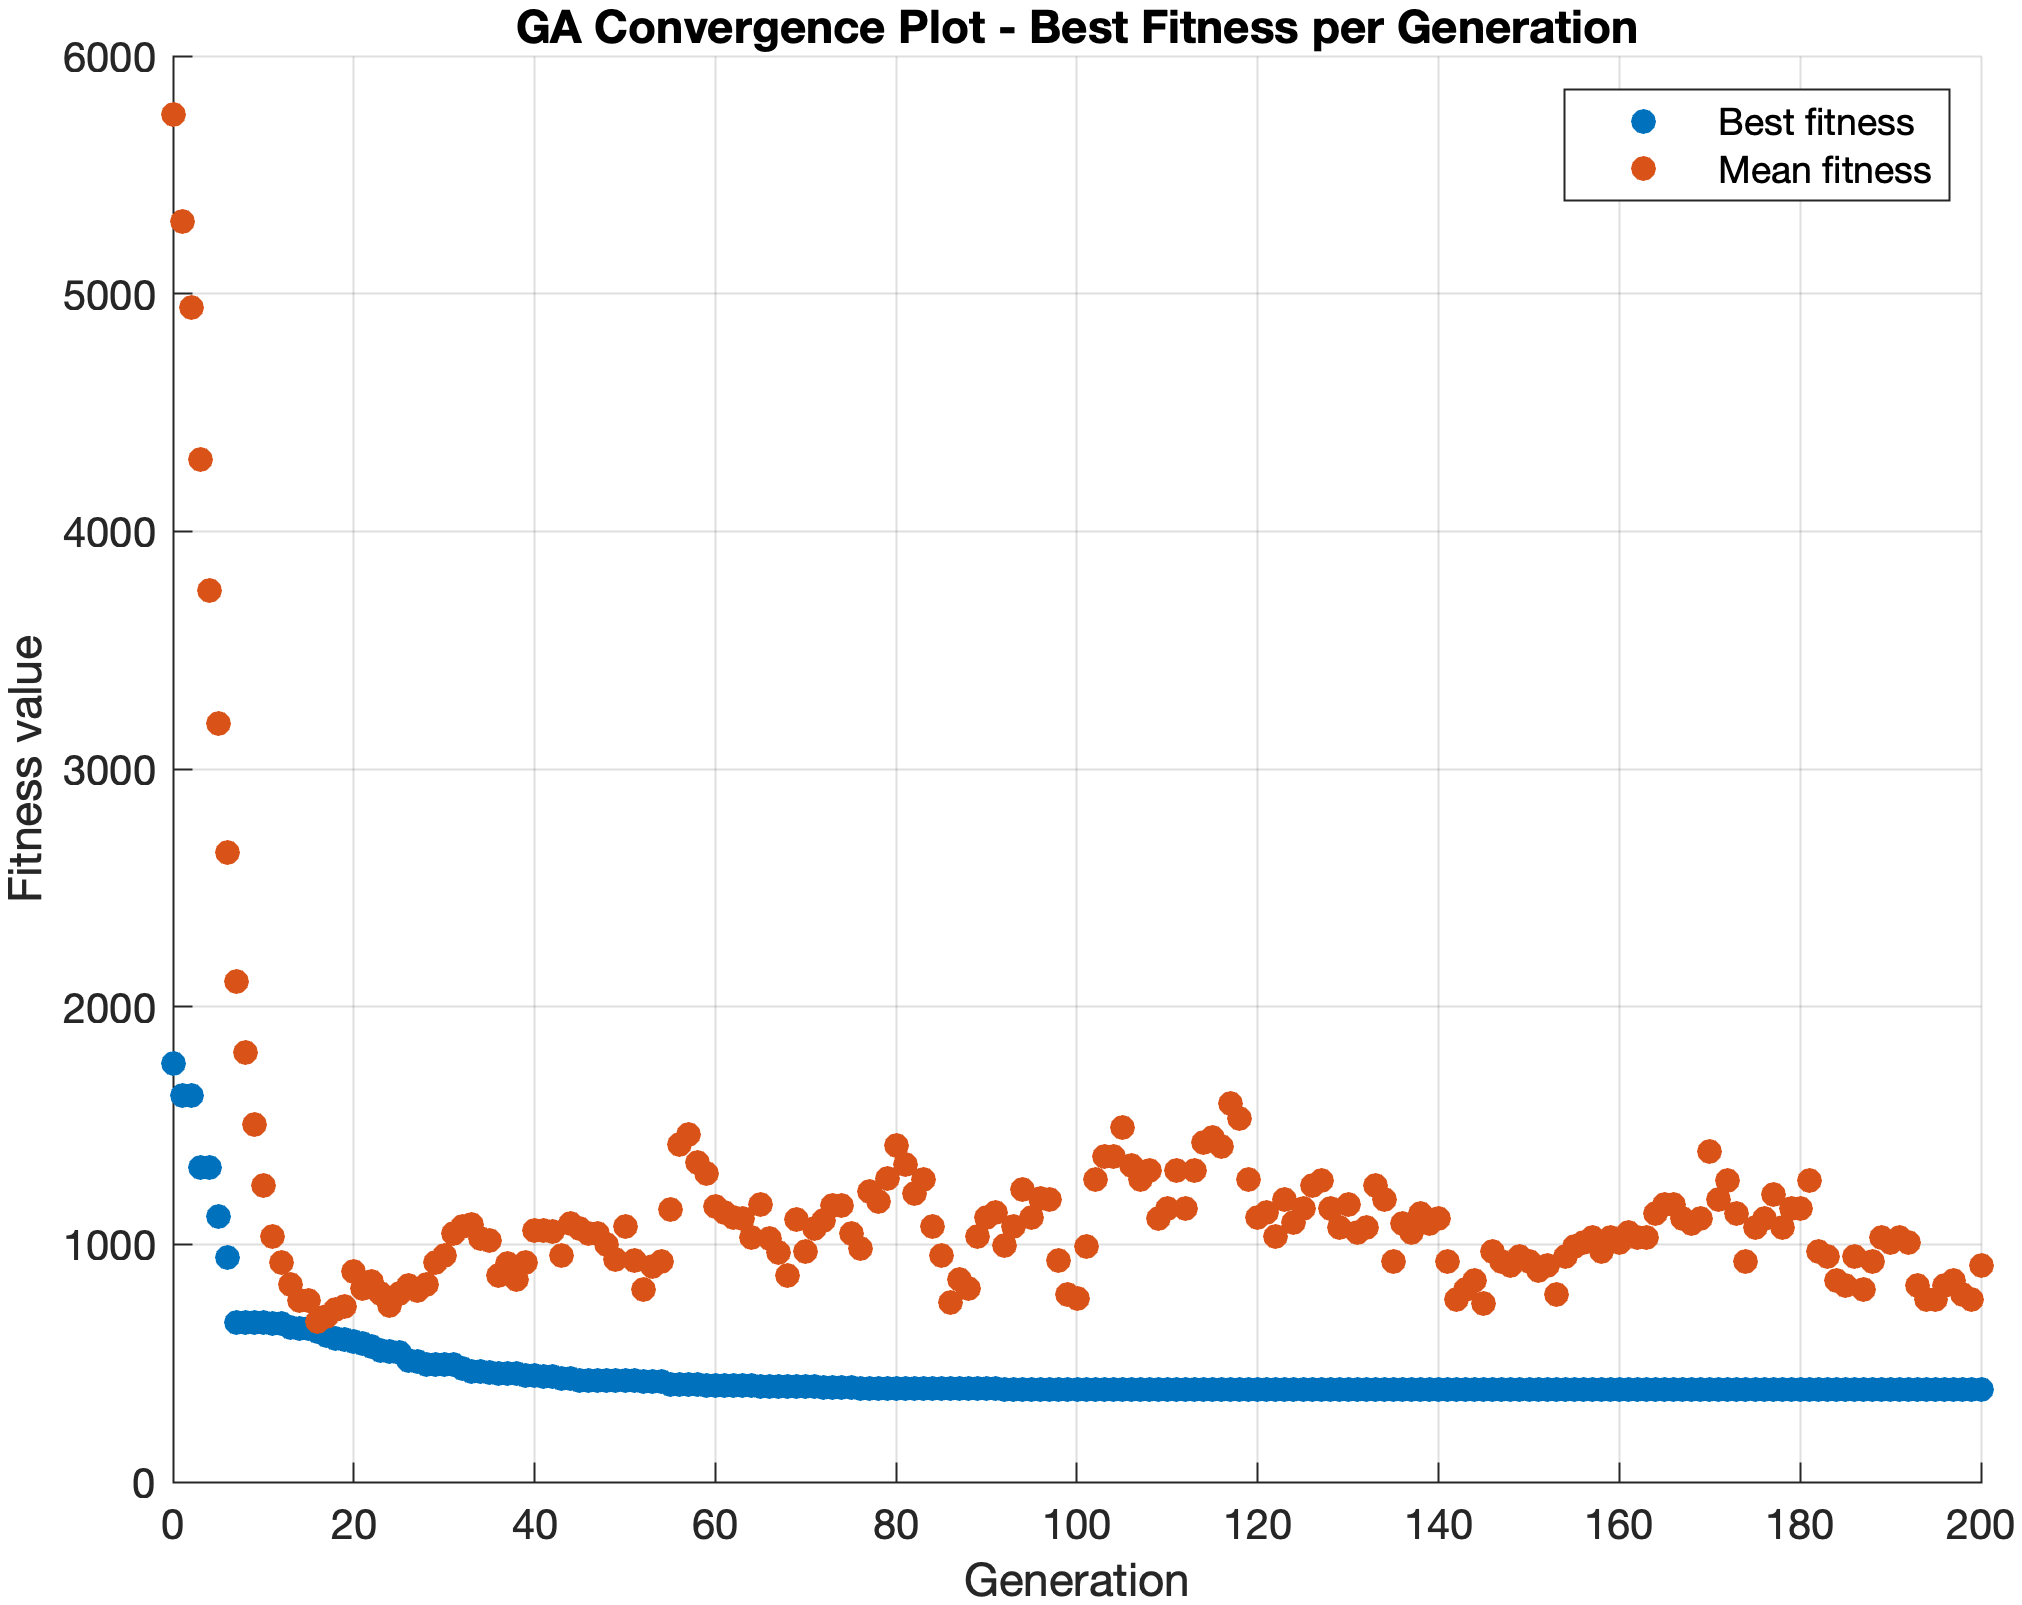
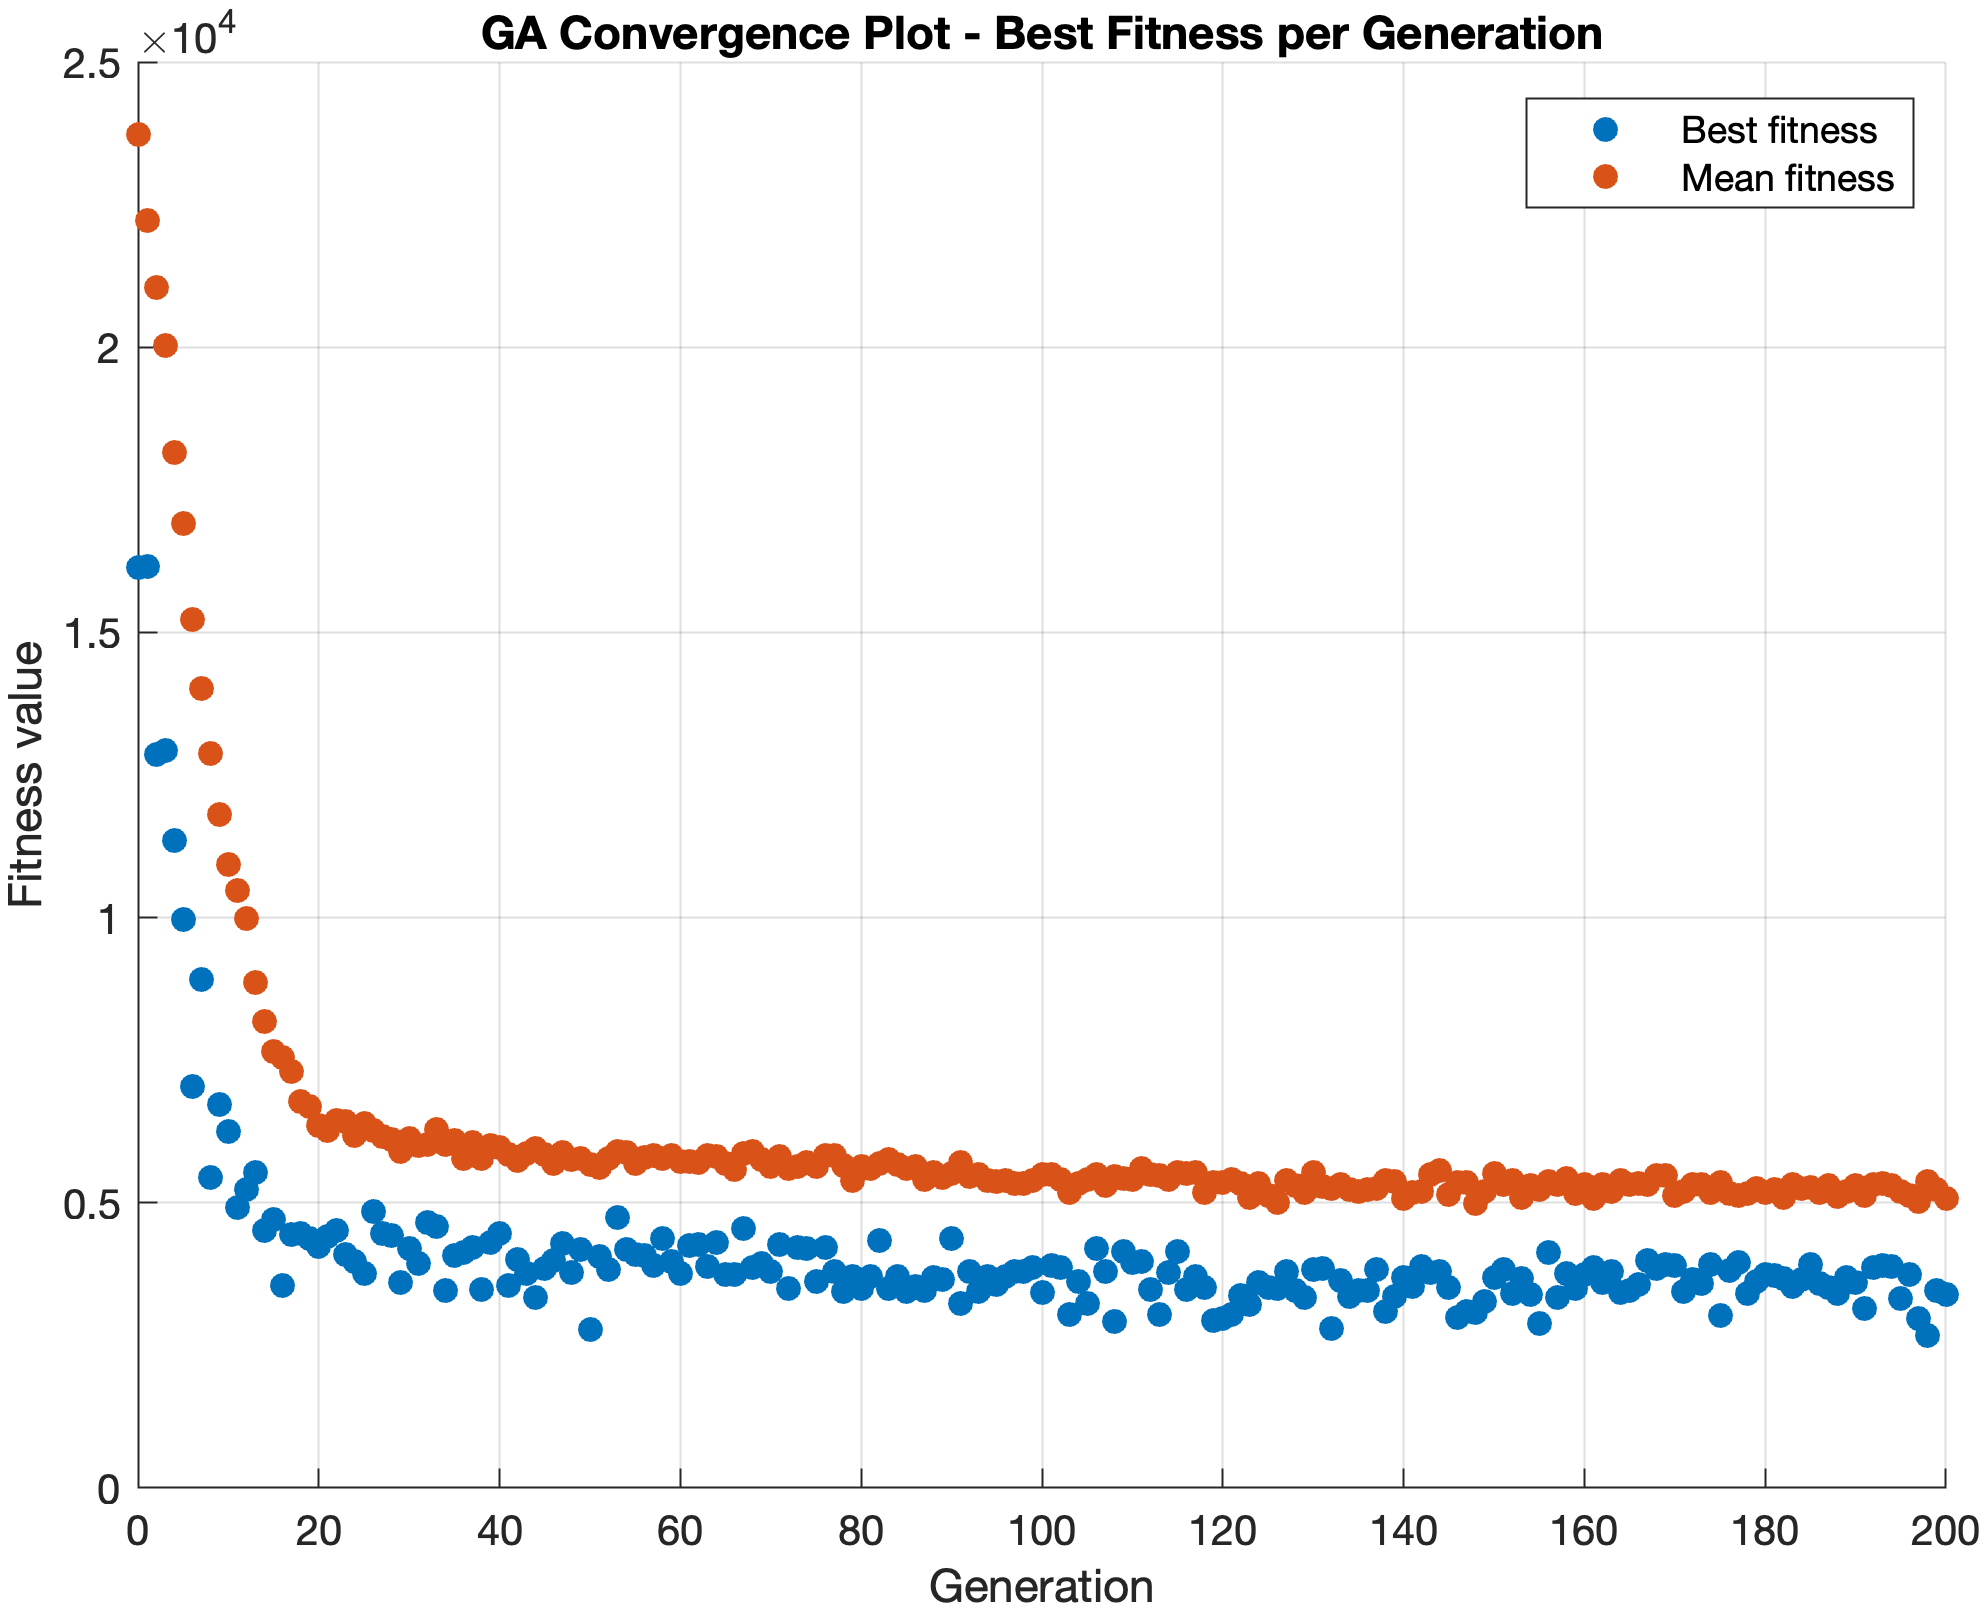
Add dinamic/scalable node configs to the final (node=10)

diff --git a/final/fitness_network.m b/final/fitness_network.m
@@ -13,23 +13,21 @@ coords = reshape(x, [], 2);
 n = size(coords,1);
 
 %% Lookup Table (Node properties)
-% Column 1: traffic load (importance of node)
-% Column 2: jitter sensitivity (not directly used but included for realism)
-nodeProps = [
-    5 1.2;
-    3 1.0;
-    4 1.1;
-    2 0.8;
-    1 0.6
+% Node properties: [traffic, jitter_weight]
+% Automatically generated based on number of nodes
+nodeProps = [ ...
+    randi([1 5], n, 1), ... % Traffic, importance of node (1–5)
+    0.5 + rand(n,1)         % Jitter weight (0.5–1.5)
 ];
 
 %% Mandatory routing links (must remain connected)
-mandatoryLinks = [
-    1 2;
-    1 3;
-    1 4;
-    1 5
-];
+% Node 1 acts as a central gateway
+mandatoryLinks = [(1*ones(n-1,1)) (2:n)'];
+
+% Sanity check (optional)
+if size(nodeProps,1) ~= n
+    error('nodeProps size must match number of nodes');
+end
 
 %% Distance constraints
 maxDist = 40;        % Maximum allowed communication distance

diff --git a/final/main.m b/final/main.m
@@ -1,5 +1,5 @@
 %% Network Topology Optimization using Genetic Algorithm
-% Goal: Optimize the physical placement of 5 computers (nodes) in a 2D space using a genetic algorithm.
+% Goal: Optimize the physical placement of computers (nodes) in a 2D space using a genetic algorithm.
 % Decision variables: x and y coordinates of each node
 % Overall idea: GA searches for coordinate configurations that minimize communication cost while satisfying network constraints.
 clc; clear; close all;
@@ -12,7 +12,7 @@ if ~exist(outputDir, 'dir')
 end
 
 %% Problem Parameters
-nNodes = 5;                 % Number of network nodes
+nNodes = 10;                 % Number of network nodes
 nvars = nNodes * 2;         % Total variables: [x1 y1 x2 y2 ...]
 lb = zeros(1, nvars);       % Lower bounds (0)
 ub = ones(1, nvars) * 100;  % Upper bounds (100)